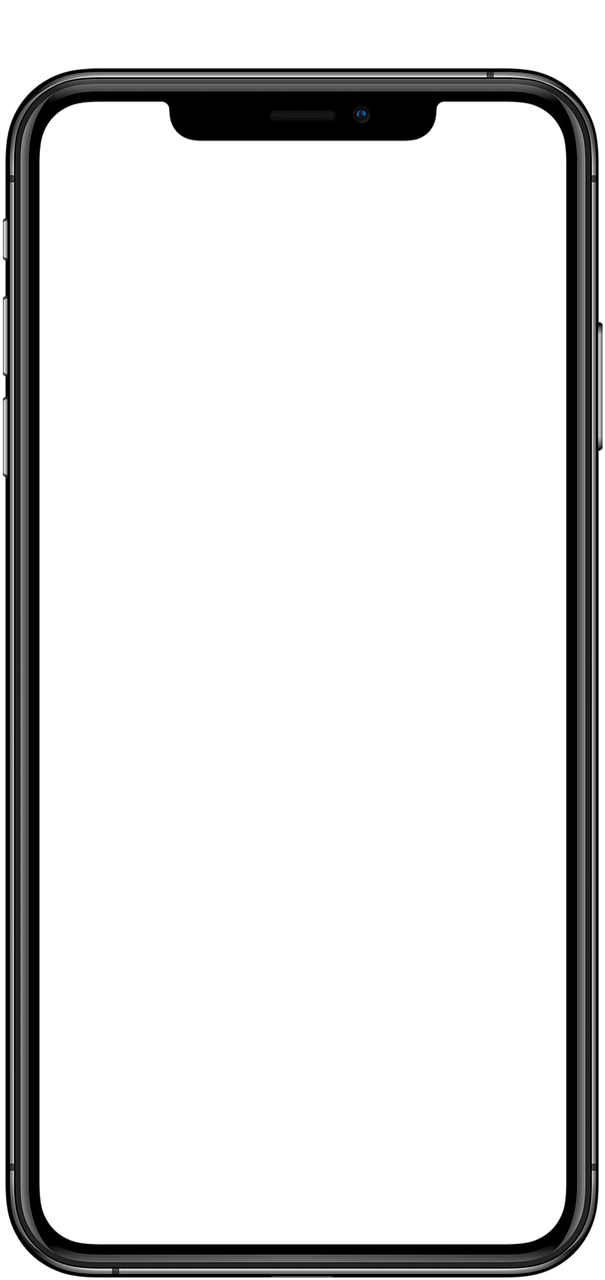
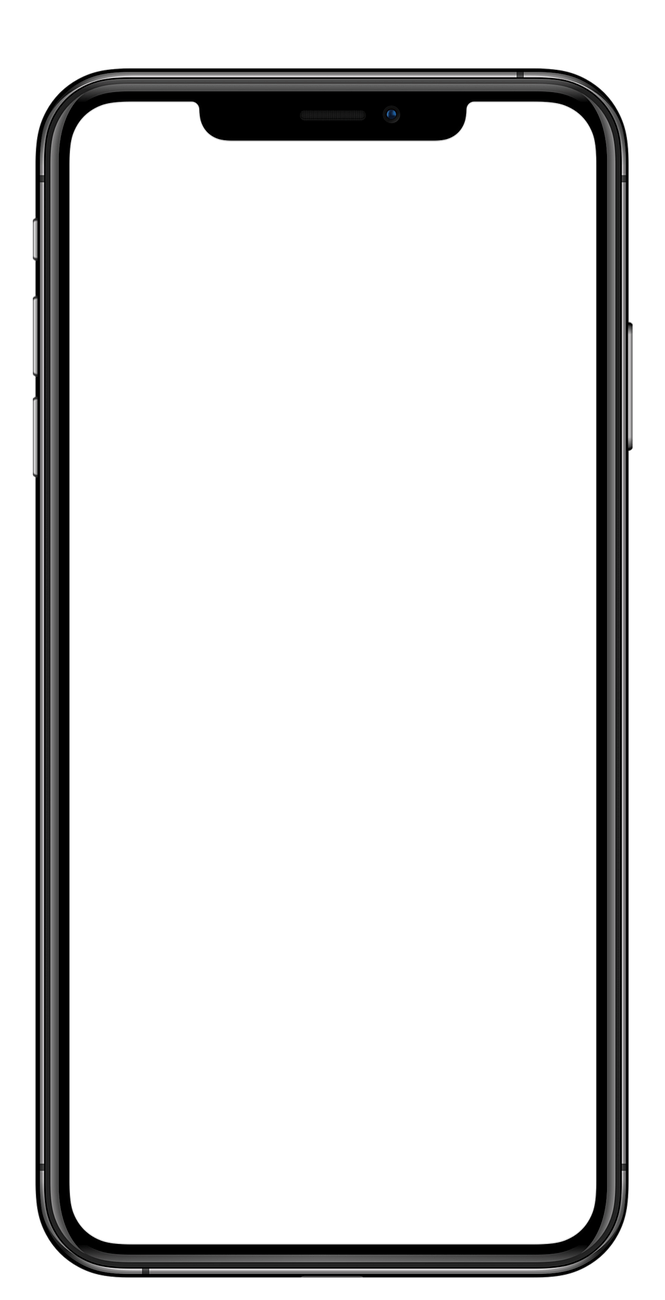
Add files via upload

Changed region(s): [[0.0, 0.0312, 1.0, 1.0]]

diff --git a/cocacola/cola/style.css b/cocacola/cola/style.css
@@ -454,6 +454,7 @@ h3 span{
   display: flex;
   justify-content: space-between;
   width: 48.438vw;
+  position: relative;
 }
 
 .iconbox li{
@@ -461,7 +462,7 @@ h3 span{
    flex-flow: column;
    justify-content: space-around;
    align-items: center;
-   opacity: 0.4;
+   /* opacity: .4; */
 }
 .iconbox li:first-child{
    opacity: 1;
@@ -470,11 +471,8 @@ h3 span{
    width: 70px;
    height: 80px;
    vertical-align: top;
+   opacity: .4;
 }
-/* .iconbox li:first-child .lian{
-   border: 6px solid #000;
-   background-color: #fff;
-} */
 .iconbox li .lian{
    margin: 25px 0 35px;
    text-indent: -9999px;
@@ -484,21 +482,23 @@ h3 span{
    border-radius: 50%;
    position: relative;
 }
-.icon li .lian::after{
-   content: '';
-   width: 11.1vw;
-   height: 1px;
-   background-color: #5e8cbe;
-   display:block;
-   position: absolute;
-   top: 50%; left: 2.3727vw;
-}
-.icon li:last-child .lian::after{
-   content: '';
-   width: auto;
-   height: auto;
-   background-color: transparent;
-}
+ .hr{
+    width: 25%;
+    height: 1px;
+    display: block;
+    position: absolute;
+   background-color: #6f92b8;
+   bottom: 36%;
+ }
+ .hr1{
+   left: 6%;
+ }
+ .hr2{
+   left: 37.5%;
+ }
+ .hr3{
+    left: 68.5%;
+ }
 .footer{
    background-color: #3f3f3f;
    font-size: 16px;
@@ -655,13 +655,8 @@ h3 span{
       display: flex;
       align-items: center;
    }
-   .icon li:first-child .lian::after{
-      width: 26.2vw;
-   }
-   .icon li .lian::after{
-      width: 26.8vw;
-      left: 20px;
-      z-index: 0;
+   .hr{
+      bottom: 65%;
    }
    .footer{
       text-align: center;
@@ -684,33 +679,6 @@ h3 span{
       top:auto;
    }
 }
-@media (max-width:1100px){
-   .icon li:first-child .lian::after{
-      width: 25.6vw;
-   }
-   .icon li .lian::after{
-      width: 26.2vw;
-      left: 20px;
-      z-index: 0;
-   }
-   @media (max-width:970px){
-      .icon li:first-child .lian::after{
-         width: 24vw;
-      }
-      .icon li .lian::after{
-         width: 25vw;
-         left: 25px;
-         z-index: 0;
-      }
-      @media (max-width:870px){
-         .icon li:first-child .lian::after{
-            width: 22.5vw;
-         }
-         .icon li .lian::after{
-            width: 23.5vw;
-
-            z-index: 0;
-         }
 /* 스크린의 가로 사이즈가 최대 768px 이상이면 적용.  */
 @media  (max-width:768px) {
    .container main .maintxt h2{
@@ -804,13 +772,6 @@ h3 span{
       font-weight: 400;
       font-size: 15px;
    }
-   .icon li:first-child .lian::after{
-      width: 20.5vw;
-   }
-   .icon li .lian::after{
-      width: 21.5vw;
-      z-index: 0;
-   }
    .txtbox{
       height: 155px;
       width: calc(33% - 24px);
@@ -856,15 +817,6 @@ h3 span{
    .iconbox li button{
       font-weight: 600;
       font-size: 15px;
-   }
-}
-@media  (max-width:520px){
-   .icon li:first-child .lian::after{
-      width: 18vw;
-   }
-   .icon li .lian::after{
-      width: 20.5vw;
-      z-index: 0;
    }
 }
 @media  (max-width:450px) {
@@ -913,14 +865,6 @@ h3 span{
       width: 30px;
       height: 30px;
    }
-   .icon li:first-child .lian::after{
-      width: 18vw;
-   }
-   .icon li .lian::after{
-      width: 20vw;
-      left: 22px;
-      z-index: 0;
-   }
    .footer{
       padding: 30px 10px;
    }
@@ -959,12 +903,5 @@ h3 span{
    }
    .liefbox .lieftxt h3{
       font-size: 16px;
-   }
-   .icon li:first-child .lian::after{
-      width: 14vw;
-   }
-   .icon li .lian::after{
-      width: 15vw;
-      z-index: 0;
    }
 }

diff --git a/cocacola/cola/index.html b/cocacola/cola/index.html
@@ -156,18 +156,21 @@
        <li class="food">
           <img src="img/svg/food.svg" alt="푸드">
           <div class="lian">lian</div>
+          <span class="hr hr1"></span>
           <button>푸드</button>
          </li>
        <li class="travel">
          <img src="img/svg/travel.svg" alt="여행">
-         <div class="lian">lian</div>
+         <div class="lian"></div>
+         <span class="hr hr2"></span>
          <button>여행</button></li>
        <li class="sports">
          <img src="img/svg/sports.svg" alt="스포츠">
-         <div class="lian">lian</div>
+         <div class="lian"></div>
+         <span class="hr hr3"></span>
          <button>스포츠</button></li>
        <li class="coca"><img src="img/svg/cocacola.svg" alt="컬쳐">
-         <div class="lian">lian</div>
+         <div class="lian"></div>
          <button>컬쳐</button></li>
     </ul>
 </div>
@@ -413,7 +416,8 @@ journeytv_pl.addEventListener('click', journeytv_pl_evt);
    let lief_pr = document.getElementsByClassName('prev')[2];
    let lief_ne = document.getElementsByClassName('next')[2];
    let lief_pl = document.getElementsByClassName('play')[3];
-   let liarr =[document.getElementsByClassName('food')[0],document.getElementsByClassName('travel')[0],document.getElementsByClassName('sports')[0],document.getElementsByClassName('coca')[0]]
+   // let liarr =[document.getElementsByClassName('food')[0],document.getElementsByClassName('travel')[0],document.getElementsByClassName('sports')[0],document.getElementsByClassName('coca')[0]];
+   let liarr = [$('.food img'), $('.travel img'),$('.sports img'),$('.coca img')];
    let h = 0;
    let lief_h3txt = ['푸드','여행','스포츠','컬쳐'];
    let lief_h3step = ['STEP01','STEP02','STEP03','STEP04'];
@@ -422,7 +426,8 @@ journeytv_pl.addEventListener('click', journeytv_pl_evt);
    // liarr[0].style.opacity = '0.4';
    const reset2 = () => { // 익명함수 선언
    liarr.forEach((slide) => {
-      slide.style.opacity = '0.4';
+      slide.css('opacity','0.4');
+      // slide.style.opacity = '0.4';
 });
    
 }
@@ -436,7 +441,7 @@ journeytv_pl.addEventListener('click', journeytv_pl_evt);
       else{
          h--;
       }
-       liarr[h].style.opacity = '1'; 
+      liarr[h].css('opacity','1'); 
 
        $('.lieftxt h3').html('<span>'+lief_h3step[h]+'</span> '+lief_h3txt[h]); 
        $('.lieftxt p').html('<p>'+lief_ptxt[h]+'</p>');
@@ -453,7 +458,7 @@ journeytv_pl.addEventListener('click', journeytv_pl_evt);
       else{
          h=0;
       }
-       liarr[h].style.opacity = '1';
+       liarr[h].css('opacity','1');
        $('.lieftxt h3').html('<span>'+lief_h3step[h]+'</span> '+lief_h3txt[h]); 
    $('.lieftxt p').html('<p>'+lief_ptxt[h]+'</p>'); 
    };

diff --git a/colornote/colornote.css b/colornote/colornote.css
@@ -75,7 +75,7 @@ body{
    width: 330px;
    height: 400px;
    background: no-repeat 0 0/ cover;
-   border-radius: 25px;
+   border-radius: 25px 25px 0 0 ;
  }
  .banner .img{
    width: 360px;
@@ -153,15 +153,18 @@ dl:nth-of-type(odd) dd::before {
 video{
   width: 400px;
   border-radius: 50px 50px 30px 30px;
+  background-color: aqua;
 }
 .iphone{
-  background: url(img/png/iphone.png) no-repeat 0 0 / contain;
+   /*background: url(img/png/iphone_2.png) no-repeat 0 0 / contain, url(img/png/cover.png) no-repeat 0 0 / contain; */
+   background: url(img/png/iphone_2.png) no-repeat 0 0 / contain;
   position: absolute;
   width: 570px;
   height: 970px;
   text-indent: -9999px;
-  left: -28px;
+  left: -30px;
   top: -43px;
+  border-radius: 50px;
 }
 .mainbox .site{
   display: block;

diff --git a/colornote/colornote.html b/colornote/colornote.html
@@ -97,7 +97,7 @@
 <div class="prototype">
   <div class="mobile">
     <div class="iphone">아이폰</div>
-    <video src="mp4/XD_prot.mp4" preload autoplay muted loop poster="img/png/cover.png"></video>
+    <video src="mp4/XD_prot.mp4" preload autoplay muted loop poster="img/png/cover_900.png"></video>
   </div>
   <div class="btn">
   <a href="project.pdf" class="site">프로젝트 PDF</a>
